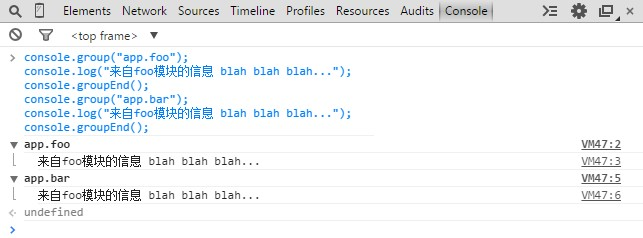
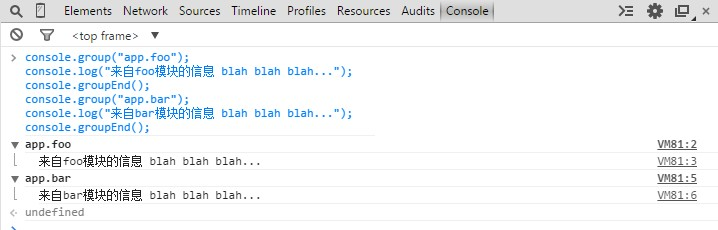
fix typo

Changed region(s): [[0.0, 0.0, 1.0, 1.0], [0.902, 0.5783, 0.9953, 0.8826]]

diff --git a/source/_posts/2014-09-10-chrome-console-tips-and-tricks.md b/source/_posts/2014-09-10-chrome-console-tips-and-tricks.md
@@ -41,7 +41,7 @@ console.group("app.foo");
 console.log("来自foo模块的信息 blah blah blah...");
 console.groupEnd();
 console.group("app.bar");
-console.log("来自foo模块的信息 blah blah blah...");
+console.log("来自bar模块的信息 blah blah blah...");
 console.groupEnd();
 ```
 
